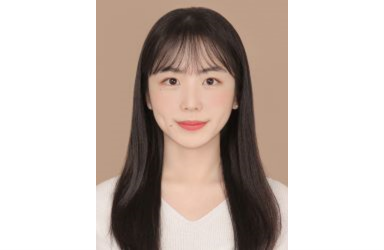
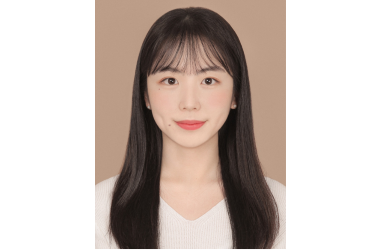
updated on 2025-04-13

diff --git a/post/present-date25/index.html b/post/present-date25/index.html
@@ -308,8 +308,8 @@
   <meta property="og:site_name" content="Computer System Architecture Lab" />
   <meta property="og:url" content="https://ku-csarch.github.io/post/present-date25/" />
   <meta property="og:title" content="Jihun presented at DATE 2025 | Computer System Architecture Lab" />
-  <meta property="og:description" content="Jihun presented his research on a hybrid GNN accelerator architecture at the Design, Automation and Test in Europe Conference (DATE) 2025." /><meta property="og:image" content="https://ku-csarch.github.io/post/present-date25/featured.png" />
-    <meta property="twitter:image" content="https://ku-csarch.github.io/post/present-date25/featured.png" /><meta property="og:locale" content="en-us" />
+  <meta property="og:description" content="Jihun presented his research on a hybrid GNN accelerator architecture at the Design, Automation and Test in Europe Conference (DATE) 2025." /><meta property="og:image" content="https://ku-csarch.github.io/post/present-date25/featured.jpg" />
+    <meta property="twitter:image" content="https://ku-csarch.github.io/post/present-date25/featured.jpg" /><meta property="og:locale" content="en-us" />
   
     
       <meta
@@ -346,7 +346,7 @@
   "headline": "Jihun presented at DATE 2025",
   
   "image": [
-    "https://ku-csarch.github.io/post/present-date25/featured.png"
+    "https://ku-csarch.github.io/post/present-date25/featured.jpg"
   ],
   
   "datePublished": "2025-04-01T00:00:00Z",
@@ -858,9 +858,9 @@
 </div>
 
 
-<div class="article-header container featured-image-wrapper mt-4 mb-4" style="max-width: 533px; max-height: 400px;">
+<div class="article-header container featured-image-wrapper mt-4 mb-4" style="max-width: 710px; max-height: 400px;">
   <div style="position: relative">
-    <img src="/post/present-date25/featured_hufc7b2088eaaa9f100c44a0ad4ccb29e0_298746_1200x2500_fit_q75_h2_lanczos_3.webp" width="533" height="400" alt="" class="featured-image">
+    <img src="/post/present-date25/featured_huf158f41c048b9ca828e95d3e094b9f0f_56337_1200x2500_fit_q75_h2_lanczos.webp" width="710" height="400" alt="" class="featured-image">
     
   </div>
 </div>

diff --git a/post/index.html b/post/index.html
@@ -959,7 +959,7 @@
     
     
     <a href="/post/present-date25/" >
-      <img src="/post/present-date25/featured_hufc7b2088eaaa9f100c44a0ad4ccb29e0_298746_150x0_resize_q75_h2_lanczos_3.webp" height="113" width="150"
+      <img src="/post/present-date25/featured_huf158f41c048b9ca828e95d3e094b9f0f_56337_150x0_resize_q75_h2_lanczos.webp" height="85" width="150"
            alt="Jihun presented at DATE 2025" loading="lazy">
     </a>
     
@@ -1066,7 +1066,7 @@
     
     
     <a href="/post/committee-micro25/" >
-      <img src="/post/committee-micro25/featured_hu125a1de4a02ceaf52f4eb9d1ca6c46fd_72617_150x0_resize_q75_h2_lanczos_3.webp" height="44" width="150"
+      <img src="/post/committee-micro25/featured_hu2a5fd4ae56570d7d4d6ab9bc7eb8652d_126233_150x0_resize_q75_h2_lanczos_3.webp" height="26" width="150"
            alt="Prof. Gunjae Koo will be serving on the program committee for MICRO 2025" loading="lazy">
     </a>
     
@@ -1613,7 +1613,7 @@
     
     
     <a href="/post/defense-masters24_1/" >
-      <img src="/post/defense-masters24_1/featured_hu3dc69b3450f8ac6f619746055b73f6bd_23651_150x0_resize_q75_h2_lanczos_3.webp" height="42" width="150"
+      <img src="/post/defense-masters24_1/featured_hu6d3d798bc79ef087619287fc088d77a8_54038_150x0_resize_q75_h2_lanczos_3.webp" height="84" width="150"
            alt="Jiwon, Geonwoo and Dowon defended" loading="lazy">
     </a>
     

diff --git a/tag/conference/index.html b/tag/conference/index.html
@@ -958,7 +958,7 @@
     
     
     <a href="/post/present-date25/" >
-      <img src="/post/present-date25/featured_hufc7b2088eaaa9f100c44a0ad4ccb29e0_298746_150x0_resize_q75_h2_lanczos_3.webp" height="113" width="150"
+      <img src="/post/present-date25/featured_huf158f41c048b9ca828e95d3e094b9f0f_56337_150x0_resize_q75_h2_lanczos.webp" height="85" width="150"
            alt="Jihun presented at DATE 2025" loading="lazy">
     </a>
     
@@ -1065,7 +1065,7 @@
     
     
     <a href="/post/committee-micro25/" >
-      <img src="/post/committee-micro25/featured_hu125a1de4a02ceaf52f4eb9d1ca6c46fd_72617_150x0_resize_q75_h2_lanczos_3.webp" height="44" width="150"
+      <img src="/post/committee-micro25/featured_hu2a5fd4ae56570d7d4d6ab9bc7eb8652d_126233_150x0_resize_q75_h2_lanczos_3.webp" height="26" width="150"
            alt="Prof. Gunjae Koo will be serving on the program committee for MICRO 2025" loading="lazy">
     </a>
     

diff --git a/post/defense-masters24_1/index.html b/post/defense-masters24_1/index.html
@@ -862,9 +862,9 @@
 </div>
 
 
-<div class="article-header container featured-image-wrapper mt-4 mb-4" style="max-width: 600px; max-height: 169px;">
+<div class="article-header container featured-image-wrapper mt-4 mb-4" style="max-width: 600px; max-height: 337px;">
   <div style="position: relative">
-    <img src="/post/defense-masters24_1/featured_hu3dc69b3450f8ac6f619746055b73f6bd_23651_1200x2500_fit_q75_h2_lanczos_3.webp" width="600" height="169" alt="" class="featured-image">
+    <img src="/post/defense-masters24_1/featured_hu6d3d798bc79ef087619287fc088d77a8_54038_1200x2500_fit_q75_h2_lanczos_3.webp" width="600" height="337" alt="" class="featured-image">
     
   </div>
 </div>

diff --git a/post/committee-micro25/index.html b/post/committee-micro25/index.html
@@ -858,9 +858,9 @@
 </div>
 
 
-<div class="article-header container featured-image-wrapper mt-4 mb-4" style="max-width: 345px; max-height: 102px;">
+<div class="article-header container featured-image-wrapper mt-4 mb-4" style="max-width: 627px; max-height: 110px;">
   <div style="position: relative">
-    <img src="/post/committee-micro25/featured_hu125a1de4a02ceaf52f4eb9d1ca6c46fd_72617_1200x2500_fit_q75_h2_lanczos_3.webp" width="345" height="102" alt="" class="featured-image">
+    <img src="/post/committee-micro25/featured_hu2a5fd4ae56570d7d4d6ab9bc7eb8652d_126233_1200x2500_fit_q75_h2_lanczos_3.webp" width="627" height="110" alt="" class="featured-image">
     
   </div>
 </div>

diff --git a/post/join-lab23fa/index.html b/post/join-lab23fa/index.html
@@ -858,9 +858,9 @@
 </div>
 
 
-<div class="article-header container featured-image-wrapper mt-4 mb-4" style="max-width: 384px; max-height: 250px;">
+<div class="article-header container featured-image-wrapper mt-4 mb-4" style="max-width: 381px; max-height: 250px;">
   <div style="position: relative">
-    <img src="/post/join-lab23fa/featured_hu14dee2ec417451de32e127e66ba9cdf5_61942_1200x2500_fit_q75_h2_lanczos_3.webp" width="384" height="250" alt="" class="featured-image">
+    <img src="/post/join-lab23fa/featured_hu7b5ea4ec47608d6a444192d7e570e93b_75077_1200x2500_fit_q75_h2_lanczos_3.webp" width="381" height="250" alt="" class="featured-image">
     
   </div>
 </div>

diff --git a/category/service/index.html b/category/service/index.html
@@ -849,7 +849,7 @@
     
     
     <a href="/post/committee-micro25/" >
-      <img src="/post/committee-micro25/featured_hu125a1de4a02ceaf52f4eb9d1ca6c46fd_72617_150x0_resize_q75_h2_lanczos_3.webp" height="44" width="150"
+      <img src="/post/committee-micro25/featured_hu2a5fd4ae56570d7d4d6ab9bc7eb8652d_126233_150x0_resize_q75_h2_lanczos_3.webp" height="26" width="150"
            alt="Prof. Gunjae Koo will be serving on the program committee for MICRO 2025" loading="lazy">
     </a>
     

diff --git a/tag/committee/index.html b/tag/committee/index.html
@@ -849,7 +849,7 @@
     
     
     <a href="/post/committee-micro25/" >
-      <img src="/post/committee-micro25/featured_hu125a1de4a02ceaf52f4eb9d1ca6c46fd_72617_150x0_resize_q75_h2_lanczos_3.webp" height="44" width="150"
+      <img src="/post/committee-micro25/featured_hu2a5fd4ae56570d7d4d6ab9bc7eb8652d_126233_150x0_resize_q75_h2_lanczos_3.webp" height="26" width="150"
            alt="Prof. Gunjae Koo will be serving on the program committee for MICRO 2025" loading="lazy">
     </a>
     

diff --git a/category/defense/index.html b/category/defense/index.html
@@ -853,7 +853,7 @@
     
     
     <a href="/post/defense-masters24_1/" >
-      <img src="/post/defense-masters24_1/featured_hu3dc69b3450f8ac6f619746055b73f6bd_23651_150x0_resize_q75_h2_lanczos_3.webp" height="42" width="150"
+      <img src="/post/defense-masters24_1/featured_hu6d3d798bc79ef087619287fc088d77a8_54038_150x0_resize_q75_h2_lanczos_3.webp" height="84" width="150"
            alt="Jiwon, Geonwoo and Dowon defended" loading="lazy">
     </a>
     

diff --git a/tag/defense/index.html b/tag/defense/index.html
@@ -853,7 +853,7 @@
     
     
     <a href="/post/defense-masters24_1/" >
-      <img src="/post/defense-masters24_1/featured_hu3dc69b3450f8ac6f619746055b73f6bd_23651_150x0_resize_q75_h2_lanczos_3.webp" height="42" width="150"
+      <img src="/post/defense-masters24_1/featured_hu6d3d798bc79ef087619287fc088d77a8_54038_150x0_resize_q75_h2_lanczos_3.webp" height="84" width="150"
            alt="Jiwon, Geonwoo and Dowon defended" loading="lazy">
     </a>
     

diff --git a/category/conference/index.html b/category/conference/index.html
@@ -958,7 +958,7 @@
     
     
     <a href="/post/present-date25/" >
-      <img src="/post/present-date25/featured_hufc7b2088eaaa9f100c44a0ad4ccb29e0_298746_150x0_resize_q75_h2_lanczos_3.webp" height="113" width="150"
+      <img src="/post/present-date25/featured_huf158f41c048b9ca828e95d3e094b9f0f_56337_150x0_resize_q75_h2_lanczos.webp" height="85" width="150"
            alt="Jihun presented at DATE 2025" loading="lazy">
     </a>
     

diff --git a/tag/talk/index.html b/tag/talk/index.html
@@ -849,7 +849,7 @@
     
     
     <a href="/post/present-date25/" >
-      <img src="/post/present-date25/featured_hufc7b2088eaaa9f100c44a0ad4ccb29e0_298746_150x0_resize_q75_h2_lanczos_3.webp" height="113" width="150"
+      <img src="/post/present-date25/featured_huf158f41c048b9ca828e95d3e094b9f0f_56337_150x0_resize_q75_h2_lanczos.webp" height="85" width="150"
            alt="Jihun presented at DATE 2025" loading="lazy">
     </a>
     
